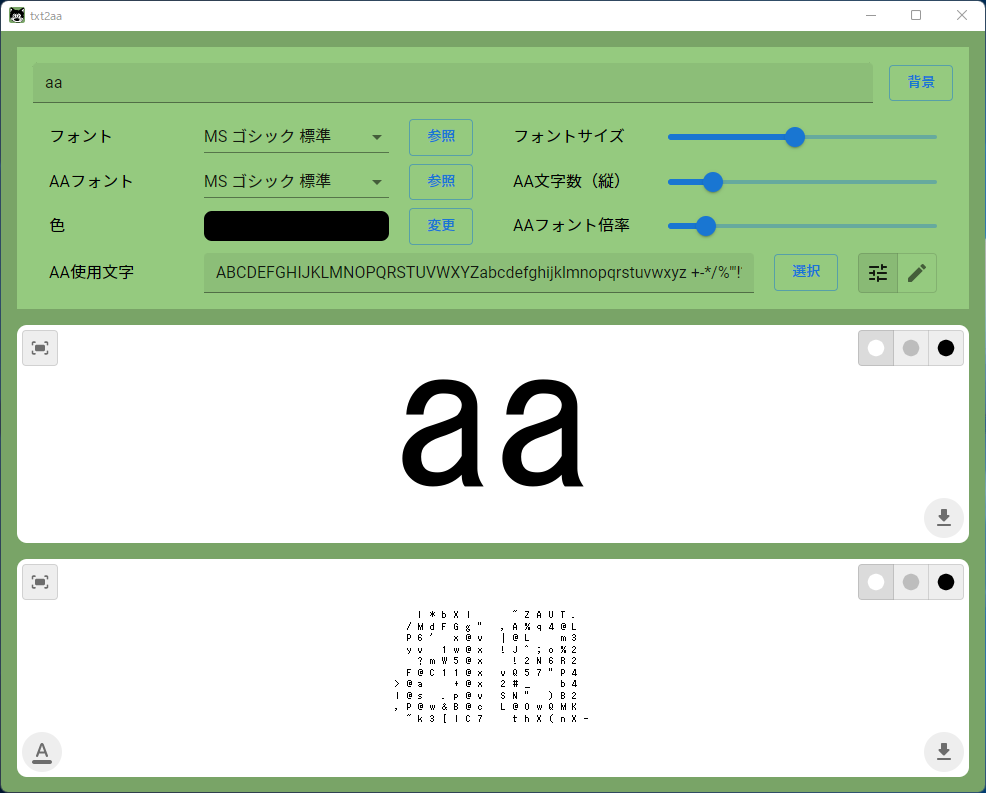
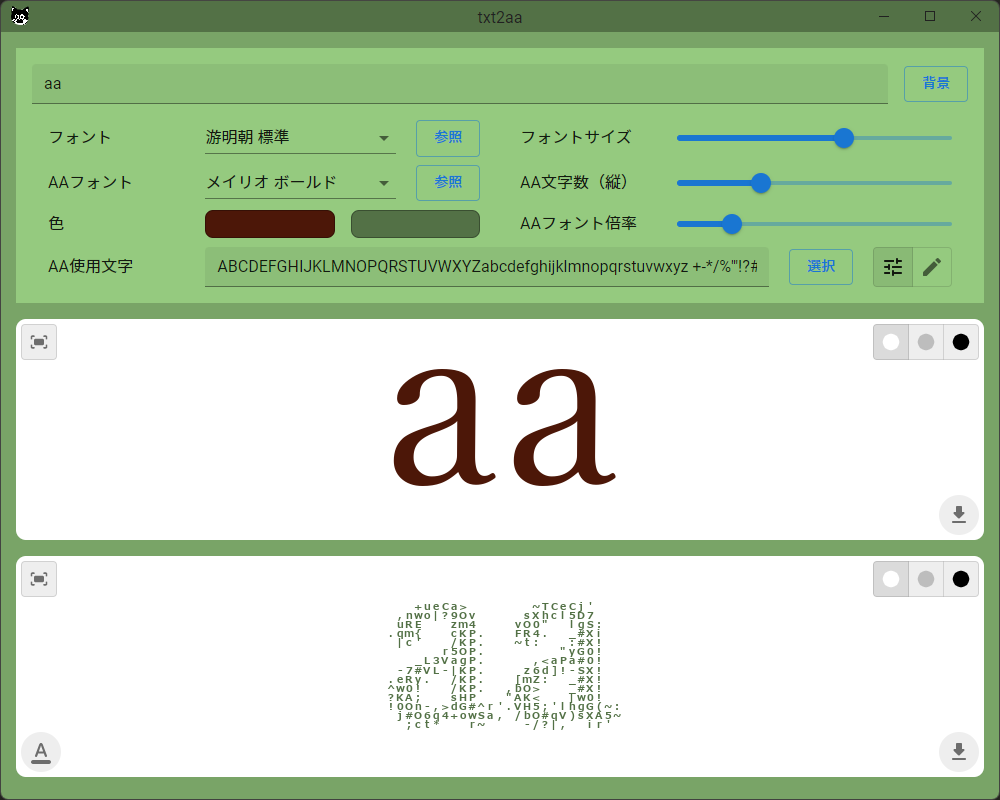
add aa color

diff --git a/src/components/ColorPicker.tsx b/src/components/ColorPicker.tsx
@@ -1,15 +1,19 @@
 import { FC, useCallback, useState, useRef } from 'react';
 import Box from '@mui/material/Box';
-import Button from '@mui/material/Button';
+import ButtonBase from '@mui/material/ButtonBase';
 import Popover from '@mui/material/Popover';
+import Tooltip from '@mui/material/Tooltip';
+import { SxProps, Theme } from '@mui/material/styles';
 import { PhotoshopPicker } from 'react-color';
 
 type Props = {
+  label: string;
   color: string;
   onAccept: (color: string) => void;
+  sx?: SxProps<Theme>;
 };
 
-const ColorPicker: FC<Props> = ({ color, onAccept }) => {
+const ColorPicker: FC<Props> = ({ label, color, onAccept, sx }) => {
   const [clr, setClr] = useState(color);
   const [open, setOpen] = useState(false);
   const anchorEl = useRef<HTMLDivElement>(null);
@@ -21,39 +25,47 @@ const ColorPicker: FC<Props> = ({ color, onAccept }) => {
 
   return (
     <>
-      <Box
-        ref={anchorEl}
-        sx={{
-          width: '100%',
-          display: 'flex',
-          alignItems: 'center',
-        }}
+      <Tooltip
+        title={label}
+        placement="top"
+        arrow
       >
-        <Box sx={{
-          flexGrow: 1,
-          height: 28,
-          mr: 2.5,
-          bgcolor: color,
-          border: '1px solid rgba(0, 0, 0, 0.3)',
-          borderRadius: 2,
-        }} />
-        <Button
-          variant="outlined"
-          onClick={() => setOpen(true)}
+        <Box
+          ref={anchorEl}
+          sx={{
+            width: '100%',
+            display: 'flex',
+            alignItems: 'center',
+            ...sx,
+          }}
         >
-          変更
-        </Button>
-      </Box>
+          <ButtonBase
+            onClick={() => setOpen(true)}
+            sx={{
+              flexGrow: 1,
+              height: 28,
+              bgcolor: color,
+              border: '1px solid rgba(0, 0, 0, 0.3)',
+              borderRadius: 2,
+            }}
+          />
+        </Box>
+      </Tooltip>
       <Popover
         open={open}
         anchorEl={anchorEl.current}
         onClose={handleCancel}
         anchorOrigin={{
           vertical: 'bottom',
-          horizontal: 'left',
+          horizontal: 'center',
+        }}
+        transformOrigin={{
+          vertical: 'top',
+          horizontal: 'center',
         }}
       >
         <PhotoshopPicker
+          header={label}
           color={clr}
           onChange={c => setClr(c.hex)}
           onCancel={handleCancel}

diff --git a/src/models/condition.ts b/src/models/condition.ts
@@ -4,6 +4,7 @@ type Condition = {
   fontSize: number;
   color: string;
   aaFont: string;
+  aaColor: string;
   numy: number;
   exp: number;
   aaStrs: string;
@@ -119,13 +120,14 @@ export const getTxt2aaUrl = (condition: Condition, port: number): string => {
 };
 
 export const getTxt2aaimgUrl = (condition: Condition, port: number): string => {
-  const { txt, font, fontSize, color, aaFont, numy, exp, aaStrs, bgimg } = condition;
+  const { txt, font, fontSize, color, aaFont, aaColor, numy, exp, aaStrs, bgimg } = condition;
   return buildUrl('txt2aa/img', port, [
     { name: 'txt', value: txt },
     { name: 'fnt', value: fontMap(font) },
     { name: 'fs', value: String(fontSize) },
     { name: 'clr', value: color },
     { name: 'afnt', value: fontMap(aaFont) },
+    { name: 'aclr', value: aaColor },
     { name: 'ny', value: String(numy) },
     { name: 'exp', value: String(exp) },
     { name: 'astr', value: aaStrs },
@@ -135,12 +137,13 @@ export const getTxt2aaimgUrl = (condition: Condition, port: number): string => {
 
 export const initialCondition: Condition = {
   txt: 'aa',
-  font: 'MS ゴシック 標準',
-  fontSize: 200,
-  color: '#000000',
-  aaFont: 'MS ゴシック 標準',
-  numy: 20,
-  exp: 1,
+  font: '游明朝 標準',
+  fontSize: 250,
+  color: '#4C1708',
+  aaFont: 'メイリオ ボールド',
+  aaColor: '#537146',
+  numy: 30,
+  exp: 1.2,
   aaStrs: `ABCDEFGHIJKLMNOPQRSTUVWXYZabcdefghijklmnopqrstuvwxyz +-*/%'"!?#&()~^|@;:.,[]{}<>_0123456789`,
   bgimg: '',
 };

diff --git a/src/components/ConditionArea.tsx b/src/components/ConditionArea.tsx
@@ -15,7 +15,7 @@ import { ConditionContext } from '../state/contexts';
 const ConditionsArea: FC = () => {
   const [isSlider, setIsSlider] = useState(true);
   const { condition, setCondition } = useContext(ConditionContext);
-  const { txt, font, fontSize, color, aaFont, numy, exp, aaStrs, bgimg } = condition;
+  const { txt, font, fontSize, color, aaFont, aaColor, numy, exp, aaStrs, bgimg } = condition;
 
   return (
     <Box sx={{
@@ -86,8 +86,16 @@ const ConditionsArea: FC = () => {
           </ConditionItem>
           <ConditionItem label="色">
             <ColorPicker
+              label="テキスト色"
               color={color}
               onAccept={c => setCondition(prev => ({ ...prev, color: c }))}
+              sx={{ mr: 1 }}
+            />
+            <ColorPicker
+              label="AA色"
+              color={aaColor}
+              onAccept={c => setCondition(prev => ({ ...prev, aaColor: c }))}
+              sx={{ ml: 1 }}
             />
           </ConditionItem>
           <ConditionItem label="AAフォント倍率">

diff --git a/py/server.py b/py/server.py
@@ -87,6 +87,7 @@ def get_txt2aa_img() -> Response:
     fs_arg = request.args.get("fs", "")
     clr_arg = request.args.get("clr", "black")
     afnt_arg = request.args.get("afnt", "")
+    aclr_arg = request.args.get("aclr", "black")
     ny_arg = request.args.get("ny", "")
     exp_arg = request.args.get("exp", "")
     astr_arg = request.args.get("astr", STRS)
@@ -97,13 +98,14 @@ def get_txt2aa_img() -> Response:
     fontsize = int(fs_arg) if isint(fs_arg) else 200
     color = clr_arg
     aa_font = afnt_arg if is_valid_font(afnt_arg) else FONT
+    aa_color = aclr_arg
     numy = int(ny_arg) if isint(ny_arg) else 20
     exp = float(exp_arg) if isfloat(exp_arg) else 1.0
     str_list = list(astr_arg)
     bgpath = bg_arg
 
     try:
-        img = txt2aa_img(txt, fontpath, fontsize, color, aa_font, numy, exp, str_list, bgpath)
+        img = txt2aa_img(txt, fontpath, fontsize, color, aa_font, aa_color, numy, exp, str_list, bgpath)
     except:
         img = EMPTY_IMG
 

diff --git a/py/txt2aa.py b/py/txt2aa.py
@@ -107,10 +107,7 @@ def txt2aa(
     str_list: list[str],
     bgpath: str,
 ) -> str:
-    if bgpath:
-        img = txt2img(txt, fontpath, fontsize, color, bgpath)
-    else:
-        img = txt2img(txt, fontpath, fontsize)
+    img = txt2img(txt, fontpath, fontsize, color, bgpath)
     aa = img2aa(img, numy, aa_font, str_list)
     return "\n".join(["".join(row) for row in aa])
 
@@ -121,14 +118,12 @@ def txt2aa_img(
     fontsize: int,
     color: str,
     aa_font: str,
+    aa_color: str,
     numy: int,
     exp: float,
     str_list: list[str],
     bgpath: str,
 ) -> Image.Image:
-    if bgpath:
-        img = txt2img(txt, fontpath, fontsize, color, bgpath)
-    else:
-        img = txt2img(txt, fontpath, fontsize)
+    img = txt2img(txt, fontpath, fontsize, color, bgpath)
     aa = img2aa(img, numy, aa_font, str_list)
-    return aa2img(aa, img.size, aa_font, exp, color)
+    return aa2img(aa, img.size, aa_font, exp, aa_color)
